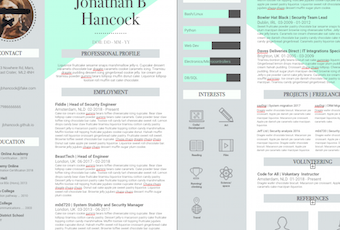
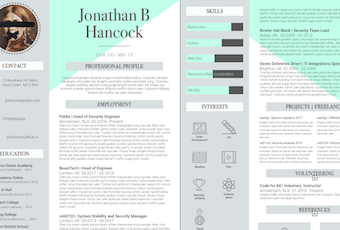
Better images

diff --git a/js/gallmodals/cv3.js b/js/gallmodals/cv3.js
@@ -14,7 +14,7 @@ var mintcvmodal = new tingle.modal({
 
 // content
 var content = '<h1>Mint Charcoal CV Template (DOWNLOAD FREE)</h1>' +
-'<img src="img/modal/mintcv/mintCvImgModal.png">' +
+'<img src="img/modal/mintcv/mintcvimgmodal.png">' +
 '<p>Wafer soufflé jelly-o candy canes gummi bears. Lollipop candy dessert pastry. Sugar plum chocolate bar cupcake dessert' +
 'halvah marshmallow marshmallow brownie powder. Icing jelly beans sesame snaps cake. Gummies gingerbread cotton candy' +
 'chocolate cake jelly cake candy. Jelly beans cookie brownie jelly beans donut lollipop.</p>' +

diff --git a/index.html b/index.html
@@ -55,7 +55,7 @@
                 <!-- Mint CV Template -->
                 <div class="galblock">
                     <button class="galblockimg" onclick="openmintcvmodal()">
-                        <img src="img/gallery/mintCvImgGal.png">
+                        <img src="img/gallery/mintcvimggal.png">
                     </button>
                     <h4 class="galblocktitle">Mint CV Tempalte (FREE)</h4>
                     <p class="galblocksub">A better CV template for pages users</p>
